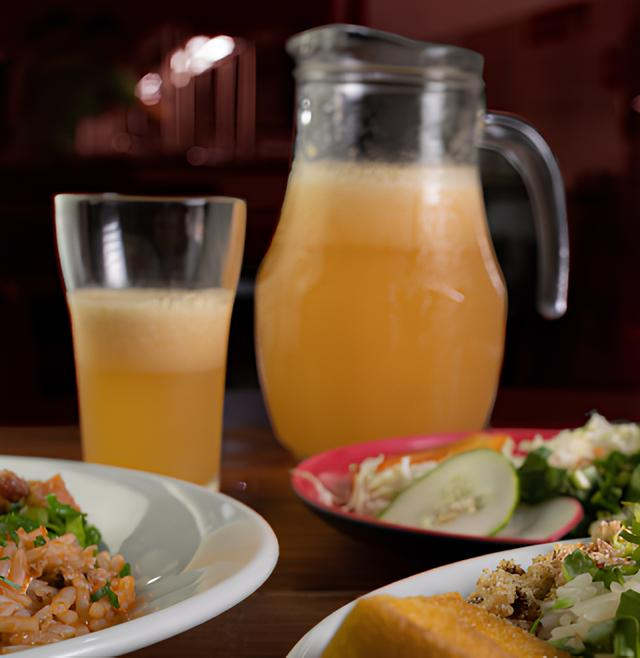
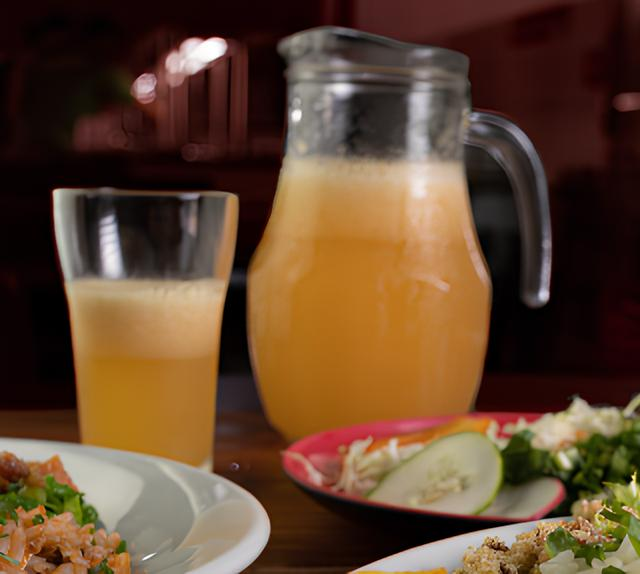
fix(style): new default img panel

diff --git a/index.html b/index.html
@@ -147,24 +147,18 @@
             </section>
 
             <section class="imgs-panel" id="imgs-panel">
-                    <picture class="frame one">
-                        <source class="panel-img" media="(min-width: 1600px)" srcset="src/images/section-images/imgs-panel/responsive/resp-img-panel-1.jpg">
+                    <div class="frame one">
                         <img class="panel-img" src="src/images/section-images/imgs-panel/img-panel-1.jpg" alt="">
-                    </picture>
-                    <picture class="frame two">
-                        <source class="panel-img" media="(min-width: 1600px)" srcset="src/images/section-images/imgs-panel/responsive/resp-img-panel-2.jpg">
+                    </div>
+                    <div class="frame two">
                         <img class="panel-img" src="src/images/section-images/imgs-panel/img-panel-2.jpg" alt="">
-                    </picture>
-                    <picture class="frame three">
-                        <source class="panel-img" media="(min-width: 1600px)" srcset="src/images/section-images/imgs-panel/responsive/resp-img-panel-3.jpg">
-                        <img class="panel-img" src="src/images/section-images/imgs-panel/img-panel-3.jpg" alt="">  
-                    </picture>
-                    <picture class="frame four">
-                        
-                            <source class="panel-img" media="(min-width: 1600px)" srcset="src/images/section-images/imgs-panel/responsive/resp-img-panel-4.jpg">
-                            <img class="panel-img" src="src/images/section-images/imgs-panel/img-panel-4.jpg" alt="">
-                        
-                    </picture>
+                    </div>
+                    <div class="frame three">
+                        <img class="panel-img" src="src/images/section-images/imgs-panel/img-panel-3.jpg" alt="">
+                    </div>
+                    <div class="frame four">
+                        <img class="panel-img" src="src/images/section-images/imgs-panel/img-panel-4.jpg" alt="">
+                    </div>
             </section>
 
             <section class="delivery" id="delivery">
